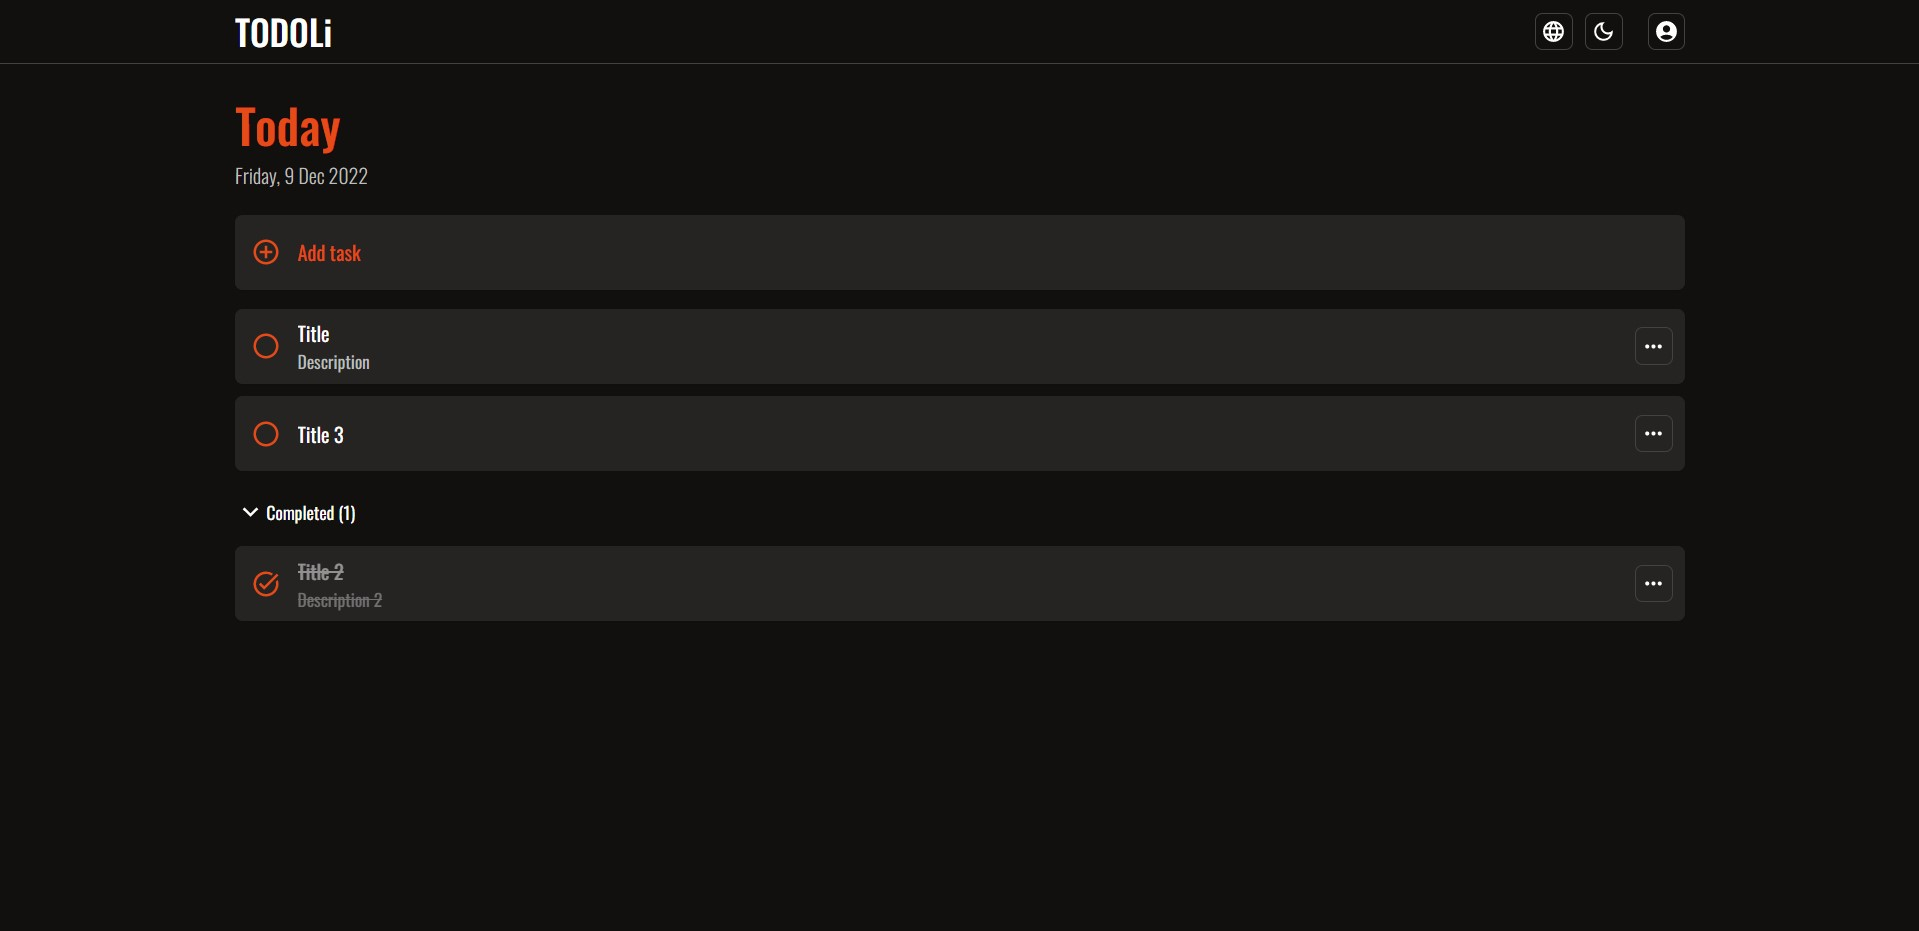
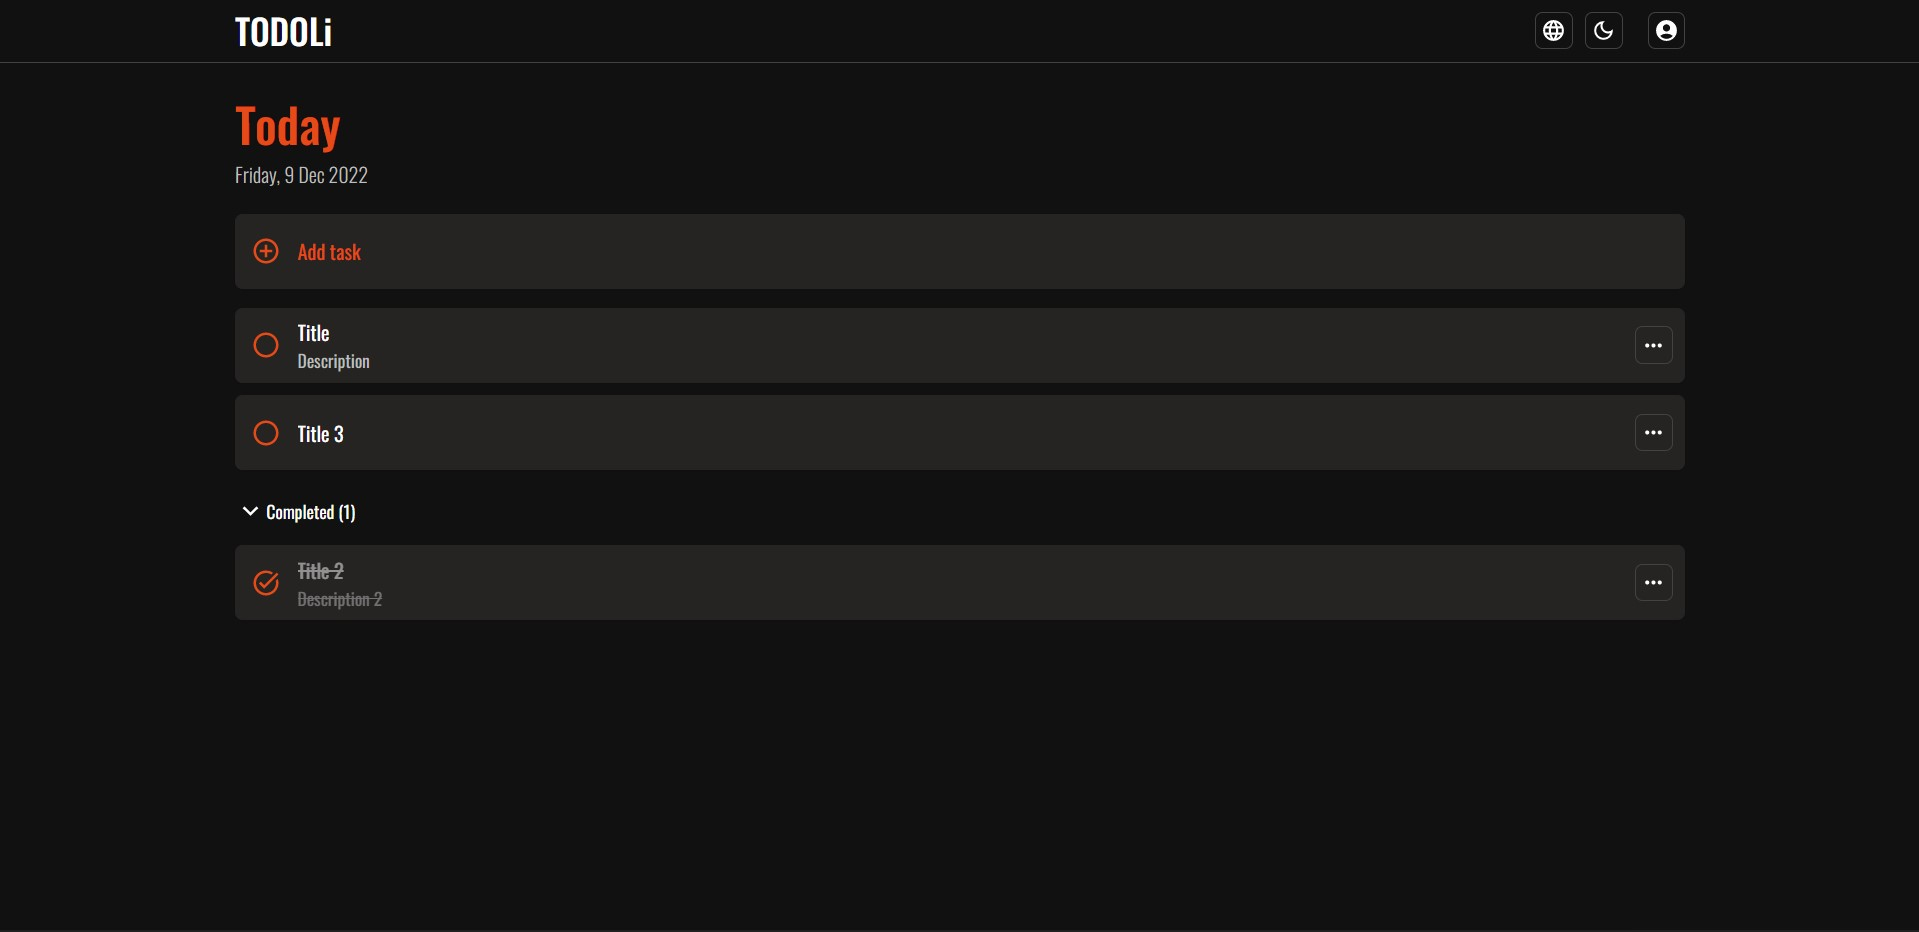
change bg color

diff --git a/client/src/assets/styles/global.scss b/client/src/assets/styles/global.scss
@@ -2,7 +2,7 @@
   --primary-color: #E64A19;
   --secondary-color: #333;
   --text-color: #FFF;
-  --background-color: #11100f;
+  --background-color: #111;
   --border-color: #424242;
   --radius: 6px;
   --label-color: #BDBDBD;
